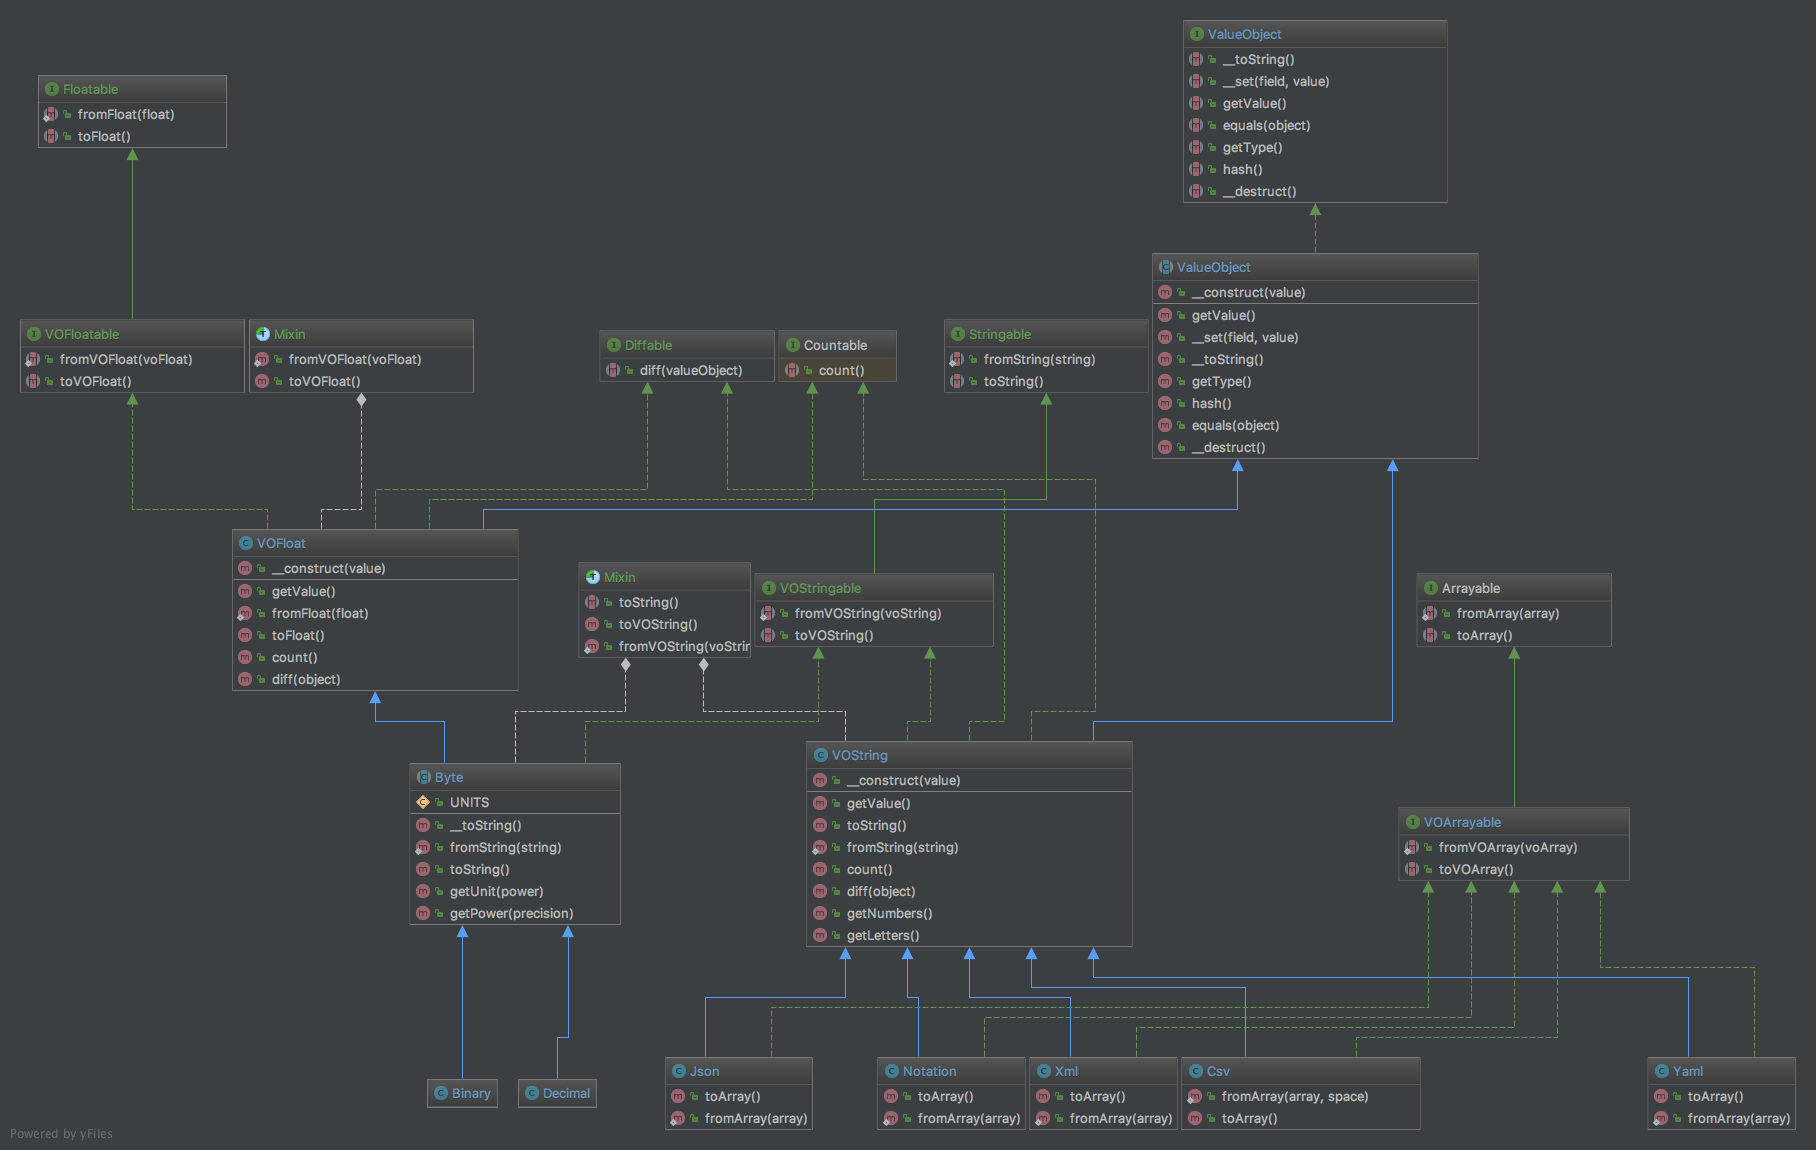
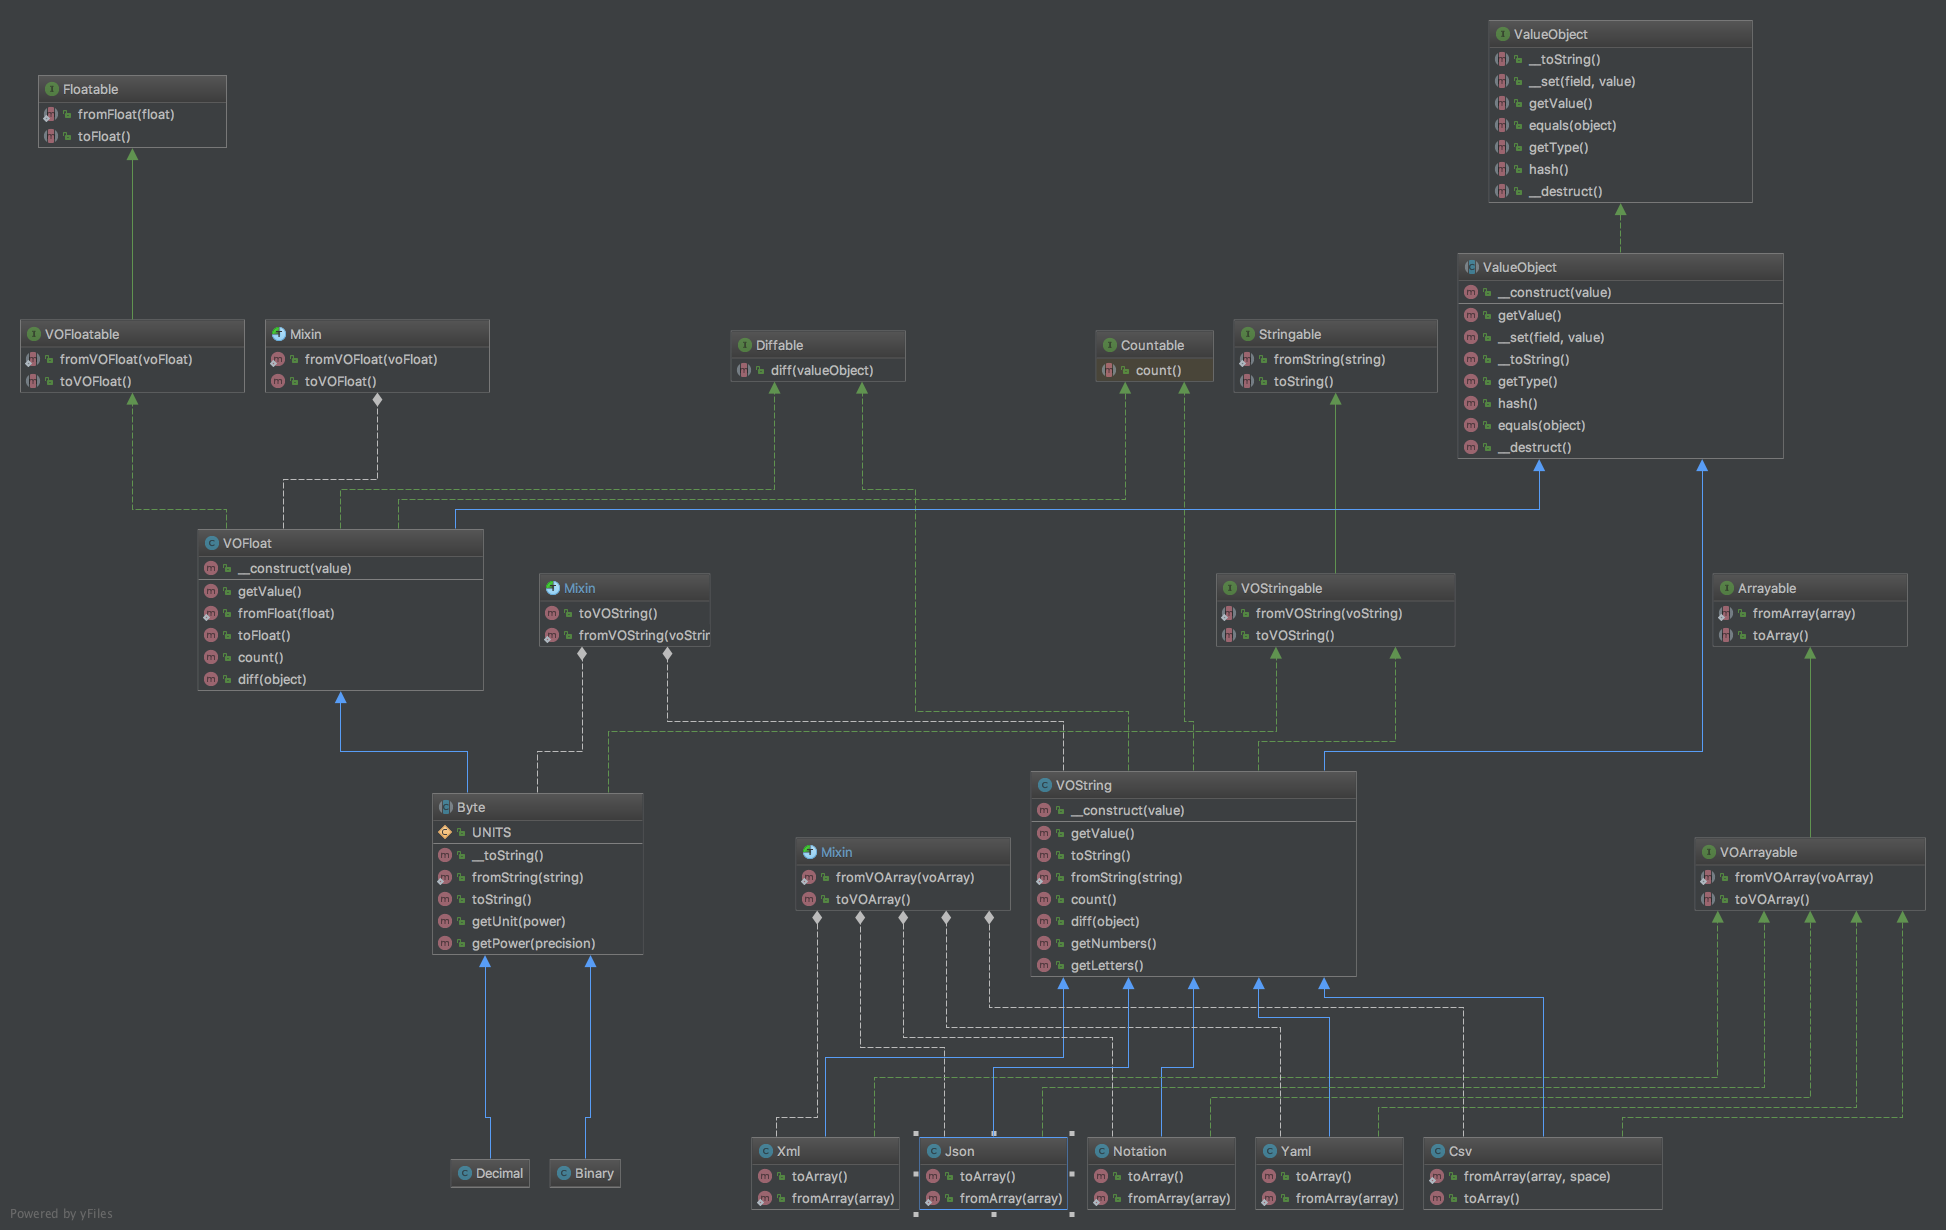
Changing mixins

diff --git a/src/VOString/Mixin.php b/src/VOString/Mixin.php
@@ -12,11 +12,6 @@ use BestServedCold\PhalueObjects\VOString;
 trait Mixin
 {
     /**
-     * @return string
-     */
-    public abstract function toString();
-
-    /**
      * @return VOString
      */
     public function toVOString()

diff --git a/src/VOArray/Mixin.php b/src/VOArray/Mixin.php
@@ -12,11 +12,6 @@ use BestServedCold\PhalueObjects\VOArray;
 trait Mixin
 {
     /**
-     * @return array
-     */
-    public abstract function toArray();
-
-    /**
      * @param  VOArray $voArray
      * @return static
      */
